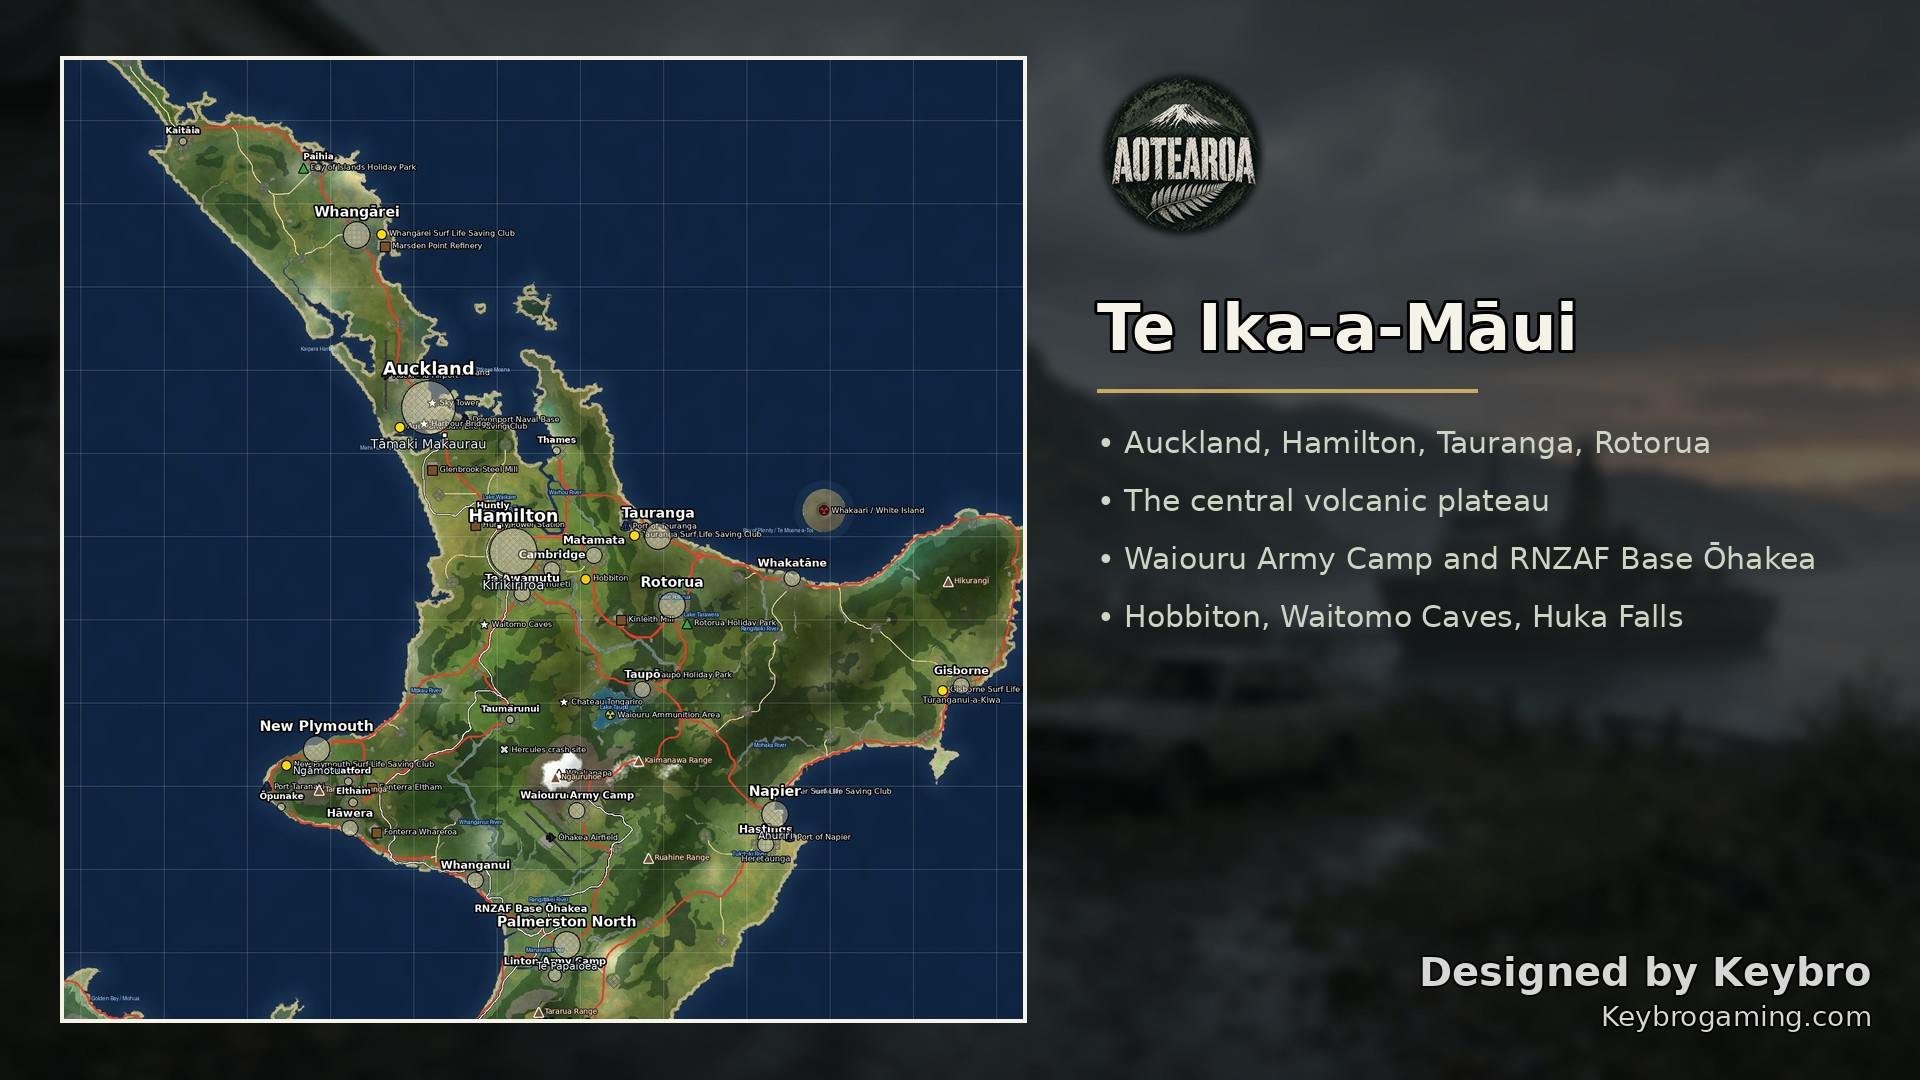
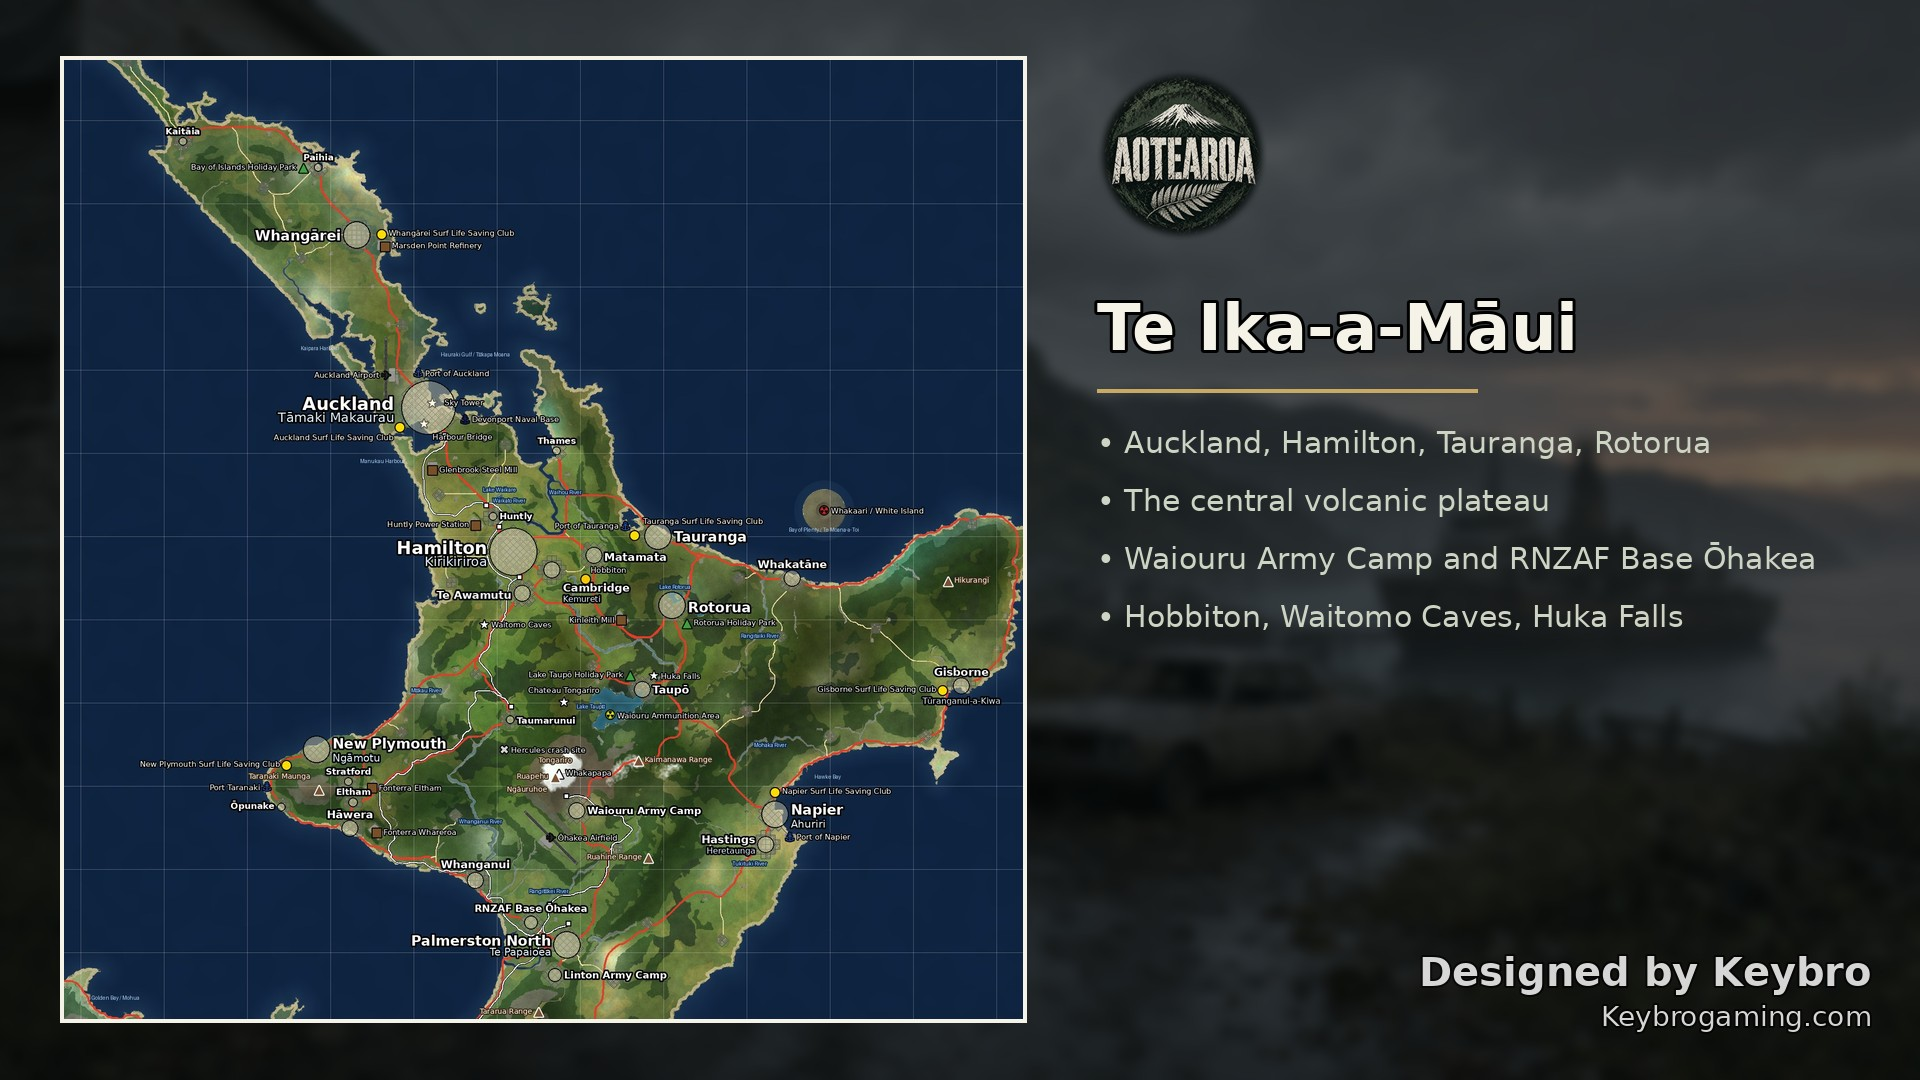
Place map labels so names don't overlap

diff --git a/tools/build_player_map.py b/tools/build_player_map.py
@@ -16,6 +16,7 @@ from pathlib import Path
 
 from PIL import Image, ImageDraw, ImageFont
 
+import labelplace
 import watermark
 
 MAP_DIR = Path(__file__).resolve().parents[1]
@@ -27,6 +28,10 @@ FONT_ITALIC = "/usr/share/fonts/truetype/dejavu/DejaVuSans-Oblique.ttf"
 TIER_STYLE = {  # font scale, dot radius scale
     "capital": (1.8, 1.6), "city": (1.45, 1.3), "town": (1.15, 1.0), "village": (0.9, 0.8), "military": (1.0, 1.0),
 }
+TOWN_ORDER = ["capital", "city", "military", "town", "village"]
+# New Zealand map abbreviations, used where the text is scaled up on a small texture (the map item).
+SHORT = [(" Surf Life Saving Club", " SLSC"), (" Holiday Park", " Holiday Pk"), ("Port of ", "Port "),
+         (" Ferry Terminal", " Ferry")]
 SITE_SYMBOL = {
     "airfield": ((40, 40, 40), "✈"), "port": ((30, 90, 200), "⚓"), "ferry": ((0, 170, 230), "⇄"),
     "naval": ((20, 40, 120), "⚓"), "industrial": ((120, 80, 40), "■"), "ski": ((255, 255, 255), "▲"),
@@ -114,6 +119,13 @@ def render(satellite: Image.Image, size: int, text_scale: float = 1.0, legend: b
 
     sym_font = font("/usr/share/fonts/truetype/dejavu/DejaVuSans.ttf", int(22 * s))
     site_font = font(FONT, int(15 * s))
+    water_font = font(FONT_ITALIC, int(15 * s))
+    sea_font = font(FONT_ITALIC, int(30 * s))
+    peak_font = font(FONT, int(14 * s))
+    placer = labelplace.Placer(d, img.size, pad=2 * s, stroke=2)
+
+    # Symbols first, reserved so no label covers them.
+    sites = []
     for p in load_sites():
         style = SITE_SYMBOL.get(p["kind"]) or (NAMED_SETTLEMENT if p["label"] and p["kind"] == "bach" else None)
         if not style:
@@ -121,45 +133,76 @@ def render(satellite: Image.Image, size: int, text_scale: float = 1.0, legend: b
         x, y = px(p["x"], p["y"])
         colour, sym = style
         d.text((x, y), sym, font=sym_font, anchor="mm", fill=colour + (255,), stroke_width=2, stroke_fill=(0, 0, 0, 255))
+        placer.reserve((x - 9 * s, y - 9 * s, x + 9 * s, y + 9 * s))
         if p["label"]:
-            d.text((x + 14 * s, y), p["label"], font=site_font, anchor="lm", fill=(255, 255, 255, 235),
-                   stroke_width=2, stroke_fill=(0, 0, 0, 220))
+            label = p["label"]
+            if text_scale > 1:
+                for long, short in SHORT:
+                    label = label.replace(long, short)
+            sites.append((label, x, y))
     for st in roads.get("stations", []):
         x, y = px(st["x"], st["y"])
         r = 5 * s
         d.rectangle([x - r, y - r, x + r, y + r], fill=(255, 255, 255, 255), outline=(0, 0, 0, 255), width=2)
+        placer.reserve((x - r, y - r, x + r, y + r))
 
     labels_path = SOURCE / "labels.json"
     features = json.loads(labels_path.read_text(encoding="utf-8")) if labels_path.exists() else []
-    water_font = font(FONT_ITALIC, int(15 * s))
-    sea_font = font(FONT_ITALIC, int(30 * s))
-    peak_font = font(FONT, int(14 * s))
+    for lb in features:
+        if lb["kind"] == "peak":
+            x, y = px(*lb["xy"])
+            d.text((x, y), "▲", font=sym_font, anchor="mm", fill=(120, 80, 50, 255), stroke_width=2,
+                   stroke_fill=(255, 255, 255, 230))
+            placer.reserve((x - 8 * s, y - 8 * s, x + 8 * s, y + 8 * s))
+
+    towns = sorted(load_towns(), key=lambda t: (TOWN_ORDER.index(t["tier"]) if t["tier"] in TOWN_ORDER
+                                                else len(TOWN_ORDER), -float(t["radius"])))
+    rings = []
+    for t in towns:
+        _, dot = TIER_STYLE.get(t["tier"], (1.0, 1.0))
+        x, y = px(float(t["x"]), float(t["y"]))
+        r = max(4.0, float(t["radius"]) * k) * dot * 0.6
+        rings.append((t, x, y, r))
+    for t, x, y, r in sorted(rings, key=lambda a: -a[3]):
+        d.ellipse([x - r, y - r, x + r, y + r], fill=(255, 245, 200, 90), outline=(0, 0, 0, 230), width=2)
+        placer.reserve((x - r, y - r, x + r, y + r))
+
+    # Labels, most important first: towns, then sites, peaks, water and seas.
+    for t, x, y, r in rings:
+        scale, _ = TIER_STYLE.get(t["tier"], (1.0, 1.0))
+        f1 = font(FONT_BOLD, int(19 * s * scale))
+        name = (t["name"], f1, (255, 255, 255, 255))
+        if t["maori"] and t["tier"] in ("capital", "city", "town"):
+            maori = (t["maori"], font(FONT, int(14 * s * scale)), (220, 240, 255, 235))
+            usual = placer._parts([name], x, y - r - 4 * s, "centre", "bottom") \
+                + placer._parts([maori], x, y + r + 4 * s, "centre", "top")
+            placer.label([name, maori], x, y, r=r, gap=4 * s, first=usual, stroke=max(2, int(3 * s)),
+                         stroke_fill=(0, 0, 0, 255))
+        else:
+            first = placer._parts([name], x, y - r - 4 * s, "centre", "bottom")
+            placer.label([name], x, y, r=r, gap=4 * s, first=first, stroke=max(2, int(3 * s)),
+                         stroke_fill=(0, 0, 0, 255))
+    for label, x, y in sites:
+        placer.label([(label, site_font, (255, 255, 255, 235))], x, y, r=9 * s, gap=4 * s, stroke_fill=(0, 0, 0, 220))
+    for lb in features:
+        x, y = px(*lb["xy"])
+        if lb["kind"] == "peak":
+            placer.label([(lb["name"], peak_font, (255, 250, 235, 240))], x, y, r=8 * s, gap=4 * s,
+                         stroke_fill=(60, 40, 20, 220))
     for lb in features:
         x, y = px(*lb["xy"])
         if lb["kind"] in ("river", "lake"):
-            d.text((x, y), lb["name"], font=water_font, anchor="mm", fill=(190, 225, 255, 240),
-                   stroke_width=2, stroke_fill=(10, 40, 80, 220))
-        elif lb["kind"] == "sea":
-            d.text((x, y), lb["name"], font=sea_font, anchor="mm", fill=(170, 205, 240, 200))
-        elif lb["kind"] == "peak":
-            d.text((x, y), "▲", font=sym_font, anchor="mm", fill=(120, 80, 50, 255), stroke_width=2,
-                   stroke_fill=(255, 255, 255, 230))
-            d.text((x + 12 * s, y), lb["name"], font=peak_font, anchor="lm", fill=(255, 250, 235, 240),
-                   stroke_width=2, stroke_fill=(60, 40, 20, 220))
+            centre = placer._parts([(lb["name"], water_font, (190, 225, 255, 240))], x, y, "centre", "middle")
+            placer.label([(lb["name"], water_font, (190, 225, 255, 240))], x, y, r=4 * s, gap=4 * s, first=centre,
+                         optional=True, stroke_fill=(10, 40, 80, 220))
+    for lb in features:
+        x, y = px(*lb["xy"])
+        if lb["kind"] == "sea":
+            centre = placer._parts([(lb["name"], sea_font, (170, 205, 240, 200))], x, y, "centre", "middle")
+            placer.label([(lb["name"], sea_font, (170, 205, 240, 200))], x, y, r=10 * s, gap=10 * s, first=centre,
+                         stroke=0, optional=True)
 
-    for t in sorted(load_towns(), key=lambda t: float(t["radius"])):
-        scale, dot = TIER_STYLE.get(t["tier"], (1.0, 1.0))
-        x, y = px(float(t["x"]), float(t["y"]))
-        r = max(4.0, float(t["radius"]) * k) * dot * 0.6
-        d.ellipse([x - r, y - r, x + r, y + r], fill=(255, 245, 200, 90), outline=(0, 0, 0, 230), width=2)
-        f1 = font(FONT_BOLD, int(19 * s * scale))
-        d.text((x, y - r - 2 * s), t["name"], font=f1, anchor="md", fill=(255, 255, 255, 255),
-               stroke_width=max(2, int(3 * s)), stroke_fill=(0, 0, 0, 255))
-        if t["maori"] and t["tier"] in ("capital", "city", "town"):
-            f2 = font(FONT, int(14 * s * scale))
-            d.text((x, y + r + 2 * s), t["maori"], font=f2, anchor="ma", fill=(220, 240, 255, 235),
-                   stroke_width=2, stroke_fill=(0, 0, 0, 230))
-
+    render.last = placer
     img = watermark.stamp(img, [watermark.CREDIT, watermark.SITE], 30 * s, opacity=150)
     d = ImageDraw.Draw(img, "RGBA")
     if not legend:

diff --git a/tools/labelplace.py b/tools/labelplace.py
@@ -1,0 +1,106 @@
+"""Map label placement that keeps names from overlapping each other, symbols and the image edge.
+
+Each label is tried at several positions round its point (right, left, above, below, then the
+diagonals, then further out); the first position clear of everything placed so far wins, or the least
+crowded one if none is clear. Place the most important labels first.
+"""
+
+from __future__ import annotations
+
+from PIL import ImageDraw, ImageFont
+
+Line = tuple[str, ImageFont.ImageFont, tuple]  # text, font, fill
+
+
+class Placer:
+    def __init__(self, draw: ImageDraw.ImageDraw, size: tuple[int, int], pad: float = 2.0, stroke: int = 2):
+        self.d, self.size, self.pad, self.stroke = draw, size, pad, stroke
+        self.boxes: list[tuple[float, float, float, float]] = []
+        self.symbols: list[tuple[float, float, float, float]] = []
+        self.forced: list[str] = []
+        self.dropped: list[str] = []
+
+    def reserve(self, box: tuple[float, float, float, float]) -> None:
+        """Keep labels off a symbol or other drawn feature (a label over a symbol costs a tenth of one over a label)."""
+        self.symbols.append(box)
+
+    def _parts(self, lines: list[Line], x: float, y: float, align: str, valign: str, gap: float = 1.0) -> list:
+        heights = []
+        for text, f, _ in lines:
+            b = self.d.textbbox((0, 0), text, font=f, anchor="la", stroke_width=self.stroke)
+            heights.append(b[3] - b[1])
+        total = sum(heights) + gap * (len(lines) - 1)
+        top = {"top": y, "middle": y - total / 2, "bottom": y - total}[valign]
+        anchor = {"left": "la", "right": "ra", "centre": "ma"}[align]
+        parts = []
+        for (text, f, fill), h in zip(lines, heights):
+            parts.append((text, f, fill, (x, top), anchor))
+            top += h + gap
+        return parts
+
+    def candidates(self, lines: list[Line], x: float, y: float, r: float, gap: float) -> list[list]:
+        out = []
+        for step in (1.0, 2.2, 3.5):
+            g = gap * step
+            dd = (r + g) * 0.72
+            out += [self._parts(lines, x + r + g, y, "left", "middle"),
+                    self._parts(lines, x - r - g, y, "right", "middle"),
+                    self._parts(lines, x, y - r - g, "centre", "bottom"),
+                    self._parts(lines, x, y + r + g, "centre", "top"),
+                    self._parts(lines, x + dd, y - dd, "left", "bottom"),
+                    self._parts(lines, x + dd, y + dd, "left", "top"),
+                    self._parts(lines, x - dd, y - dd, "right", "bottom"),
+                    self._parts(lines, x - dd, y + dd, "right", "top")]
+        return out
+
+    def _boxes(self, parts: list) -> list[tuple[float, float, float, float]]:
+        p = self.pad
+        out = []
+        for text, f, _, xy, anchor in parts:
+            b = self.d.textbbox(xy, text, font=f, anchor=anchor, stroke_width=self.stroke)
+            out.append((b[0] - p, b[1] - p, b[2] + p, b[3] + p))
+        return out
+
+    @staticmethod
+    def _overlap(boxes, others) -> float:
+        area = 0.0
+        for b in boxes:
+            for o in others:
+                ix, iy = min(b[2], o[2]) - max(b[0], o[0]), min(b[3], o[3]) - max(b[1], o[1])
+                if ix > 0 and iy > 0:
+                    area += ix * iy
+        return area
+
+    def _cost(self, boxes) -> float:
+        w, h = self.size
+        outside = sum((max(0, -b[0]) + max(0, b[2] - w)) * (b[3] - b[1]) + (max(0, -b[1]) + max(0, b[3] - h)) * (b[2] - b[0])
+                      for b in boxes)
+        return outside * 40 + self._overlap(boxes, self.boxes) * 10 + self._overlap(boxes, self.symbols)
+
+    def place(self, options: list[list], stroke: int | None = None, optional: bool = False, **text_kw) -> None:
+        """Draw the first option (a list of parts) that overlaps nothing, else the least overlapping.
+        An optional label with no clear spot is left off."""
+        best, best_cost = None, None
+        for parts in options:
+            boxes = self._boxes(parts)
+            cost = self._cost(boxes)
+            if cost == 0:
+                best = (parts, boxes)
+                break
+            if best_cost is None or cost < best_cost:
+                best, best_cost = (parts, boxes), cost
+        parts, boxes = best
+        if best_cost and self._overlap(boxes, self.boxes):
+            if optional:
+                self.dropped.append(parts[0][0])
+                return
+            self.forced.append(parts[0][0])
+        for text, f, fill, xy, anchor in parts:
+            self.d.text(xy, text, font=f, anchor=anchor, fill=fill,
+                        stroke_width=self.stroke if stroke is None else stroke, **text_kw)
+        self.boxes += boxes
+
+    def label(self, lines: list[Line], x: float, y: float, r: float = 0.0, gap: float = 4.0,
+              first: list | None = None, stroke: int | None = None, optional: bool = False, **text_kw) -> None:
+        options = ([first] if first else []) + self.candidates(lines, x, y, r, gap)
+        self.place(options, stroke=stroke, optional=optional, **text_kw)

diff --git a/tools/towns.py b/tools/towns.py
@@ -16,6 +16,8 @@ from pathlib import Path
 from typing import Callable
 
 import numpy as np
+
+import labelplace
 from PIL import Image, ImageDraw
 from scipy import ndimage
 
@@ -434,12 +436,17 @@ def draw_overview(img: Image.Image, towns: list[Town], size_m: float) -> Image.I
         for b in t.buildings:
             px, py = b.x * f, (size_m - b.y) * f
             d.rectangle([px - 1, py - 1, px + 1, py + 1], fill=(200, 40, 40))
-    for t in towns:
-        if getattr(t, "tier", "") == "hamlet":
-            continue
+    placer = labelplace.Placer(d, img.size)
+    named = [t for t in towns if getattr(t, "tier", "") != "hamlet"]
+    for t in named:
+        px, py = t.x * f, (size_m - t.y) * f
+        r = max(3.0, t.radius * f)
+        placer.reserve((px - r, py - r, px + r, py + r))
+    for t in sorted(named, key=lambda t: -t.radius):
         px, py = t.x * f, (size_m - t.y) * f
         colour = (255, 255, 0) if t.tier == "military" else (255, 255, 255)
-        d.text((px + t.radius * f + 4, py - 6), t.label, fill=colour, font=_font(13), stroke_width=2, stroke_fill=(0, 0, 0))
+        placer.label([(t.label, _font(13), colour)], px, py, r=max(3.0, t.radius * f), gap=4,
+                     stroke_fill=(0, 0, 0))
     return img
 
 

diff --git a/CHANGELOG.md b/CHANGELOG.md
@@ -13,6 +13,7 @@ Versions follow `MAJOR.MINOR.PATCH`. `VERSION` holds the current one, and `mod/m
 - Civilian towns are tier 3 or lower and military areas reach 150 m past the bases (was 400 m): Palmerston North, Queenstown, Rakaia, Twizel, Lyttelton and Rakaia Huts are no longer tier 4
 
 ### Fixed
+- Map labels no longer overlap on the player map, the map item and the towns preview (`tools/labelplace.py`): each name moves round its town or site until it's clear, crowded river and lake names are left off, and the map item uses NZ abbreviations (SLSC, Holiday Pk)
 - The old loot changes spawned every New Zealand weapon fully loaded and every ammo box full, and dropped vanilla's shelf tags
 
 ## 0.6.2 - 2026-11-26

diff --git a/README.md b/README.md
@@ -564,4 +564,5 @@ python tools/check_map.py
 | `details.py` | Bridge, lake, power line, guardrail, fence, hedge, rock, rail, wreck and town detail models and spacing |
 | `build_mission.py` | Spawn, vehicle and crash counts, infected zone density, temperatures |
 | `server_files.py` | Starting gear (`PRESETS`), server messages, restart interval and launch scripts |
+| `labelplace.py` | Keeps map labels from overlapping (player map, map item, towns preview) |
 | `economy.py` | Loot changes (`NZ_TYPES`), tier rules, animal herds (`HERDS`), weather |
